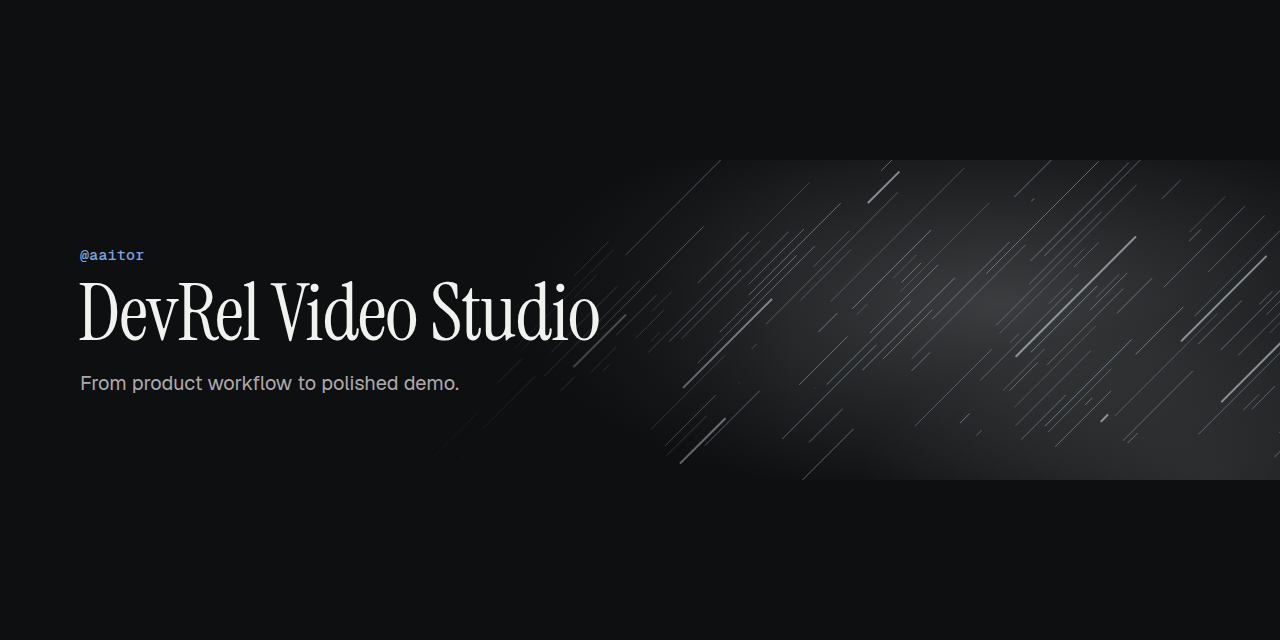
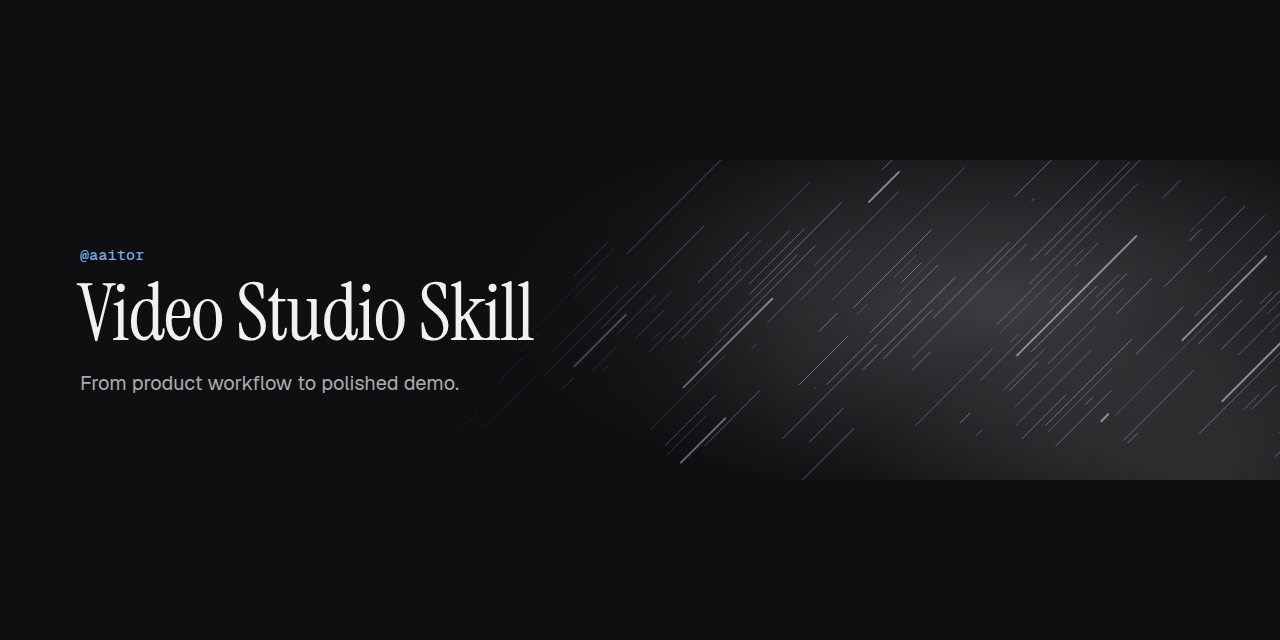
Rebrand as Video Studio Skill and prepare v1.0 release

Changed region(s): [[0.0625, 0.4375, 0.4688, 0.5312]]

diff --git a/README.md b/README.md
@@ -1,9 +1,10 @@
 <p align="center">
-  <img src="https://raw.githubusercontent.com/aaitor/assets/57ffb65100e722a14713c546690cd4a90cf6355d/banners/devrel-video-studio.svg" alt="DevRel Video Studio — from product workflow to polished demo" width="100%">
+  <img src="https://raw.githubusercontent.com/aaitor/assets/fd5c94691f8a2c0f751834e20ef6851748bd766d/banners/skill-video-studio.svg" alt="Video Studio Skill — from product workflow to polished demo" width="100%">
 </p>
 
-<h1 align="center">DevRel Video Studio</h1>
+<h1 align="center">Video Studio Skill</h1>
 <p align="center">From product workflow to polished demo.</p>
+<p align="center"><a href="https://github.com/aaitor/skill-video-studio/releases/tag/v1.0">v1.0 release</a> · <code>aaitor/skill-video-studio</code></p>
 <p align="center">
   <a href="#quick-start">Quick start</a> ·
   <a href="#worked-videos">Worked videos</a> ·
@@ -19,7 +20,7 @@ A local video-production workspace driven by the **`/devrel-video` Claude Code s
 
 ## Demo
 
-![Install DevRel Video Studio and prepare a real walkthrough brief in Claude Code](assets/terminal-demo.gif)
+![Install Video Studio Skill and prepare a real walkthrough brief in Claude Code](assets/terminal-demo.gif)
 
 A real Claude Code session using the installed project skill: clone the studio, prepare an Acme walkthrough brief, and inspect the three-beat plan on a black background. This short demo stops **before capture and rendering**; it does not claim a video was produced. The [recording guide](examples/README.md) includes the actual generated brief and reproduction command.
 

diff --git a/docs/installation.md b/docs/installation.md
@@ -40,3 +40,15 @@ The capture wrapper installs Playwright CLI under `.pw/` if needed; it uses npm 
 Follow the [worked example](../projects/example-walkthrough/README.md) to serve the local Acme app, capture three real interactions, compose, render, and generate a thumbnail. Begin with a silent cut. Narration, avatars, and voice swapping have extra requirements documented in [configuration](configuration.md) and [usage](usage.md).
 
 Full video generation is a local production workflow and can take time and disk space. The README demo plans a brief only; it does not prove your capture/render stack is installed.
+
+## Install v1.0
+
+For the first release, clone the tag instead of the moving default branch:
+
+```bash
+git clone --branch v1.0 --depth 1 https://github.com/aaitor/skill-video-studio.git
+cd skill-video-studio
+claude
+```
+
+The release keeps the native workspace layout and `/devrel-video` invocation. See the [release notes](https://github.com/aaitor/skill-video-studio/releases/tag/v1.0) for included features and validation limits.

diff --git a/CHANGELOG.md b/CHANGELOG.md
@@ -1,7 +1,8 @@
 # Changelog
 
-## Unreleased
+## v1.0 — 2026-10-29
 
+- Publish the first release as Video Studio Skill with updated shared artwork.
 - Rename the repository to `skill-video-studio`; update installation, project CTA links, and recording commands. Keep `/devrel-video` unchanged.
 
 - Adopt the shared repository format with a branded banner, MIT license, focused README, guides, and community files.
